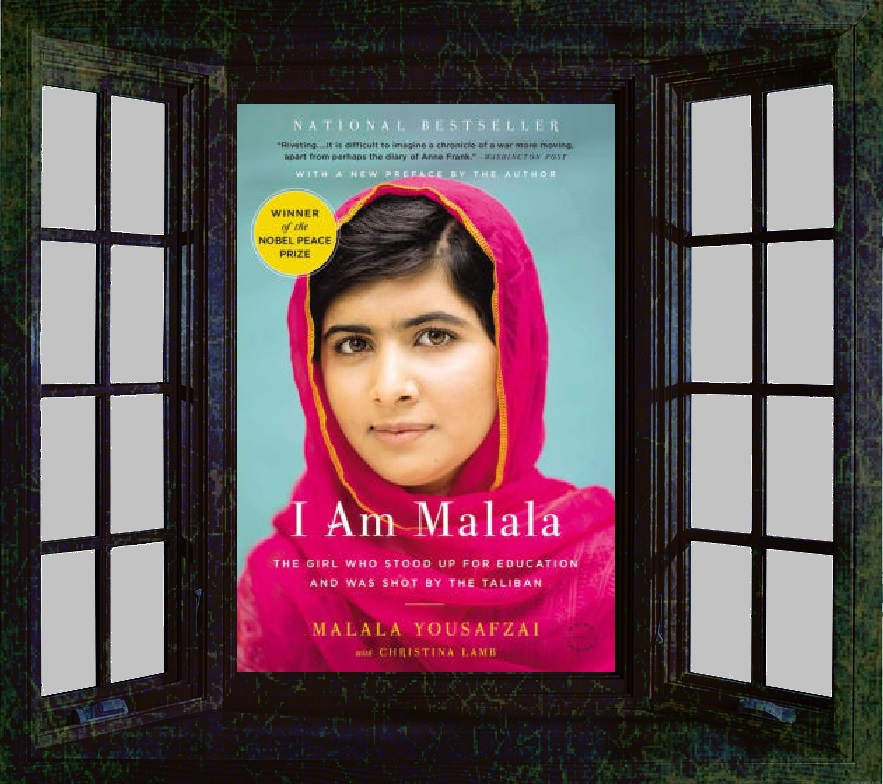
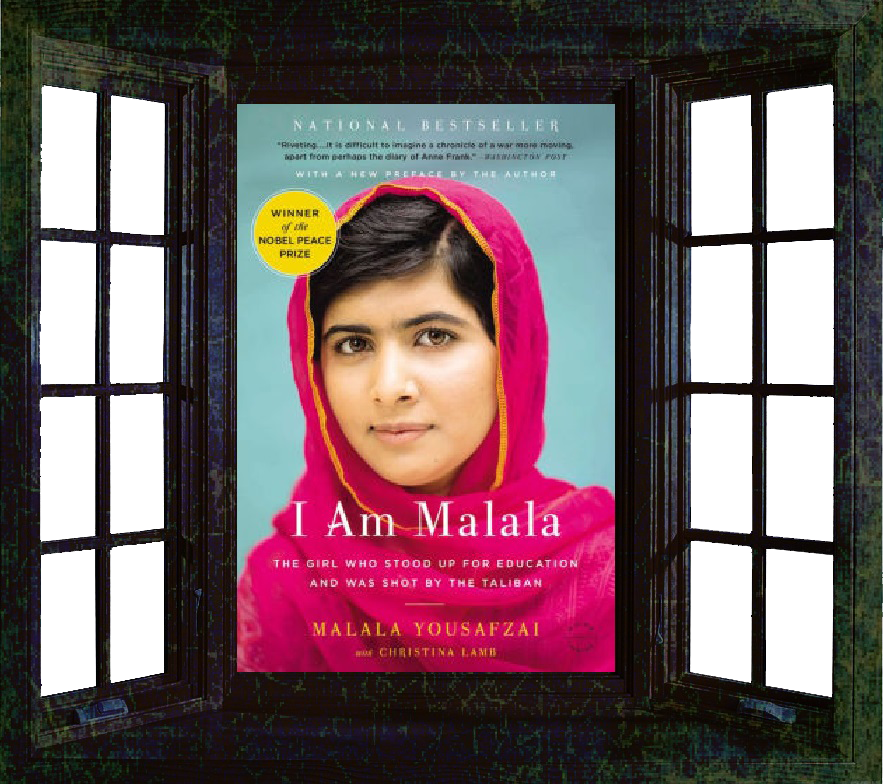
Added Books

Changed region(s): [[0.7644, 0.0918, 0.9479, 0.8878], [0.0306, 0.0918, 0.214, 0.8878]]

diff --git a/js/bookstore.js b/js/bookstore.js
@@ -1,13 +1,13 @@
 var book1 = {
     "id": 1,
-    "name": "Lasagna: A Retrospective",
-    "author": "Garfield",
-    "pictureUrl": "http://moziru.com/images/hut-clipart-windoor-10.png",
+    "name": "An American Marriage",
+    "author": "Tayari Jones",
+    "pictureUrl": "/css/photos/windowAmerican.png",
     "price": 24,
     "sellingPoints": [
-        "Lasagna is delicious.",
-        "The essential guide to Italian casseroles of all types.",
-        "Real G's move silent, like Lasagna. -Lil Wayne"
+        "Marriages are great.",
+        "The essential guide to Marriages of all types.",
+        "Real Couples's move in silence, like Lasagna. -Lil Me"
     ]
 }
 $('#book-1-id li p').text(book1.id)
@@ -23,5 +23,130 @@ while (i < book1.sellingPoints.length) {
   i ++
 }
 
-// $('#book-1-sellingpoints-2').text(book1.sellingPoints[1])
+var book2 = {
+    "id": 2,
+    "name": "Lasagna: A Retrospective",
+    "author": "Garfield",
+    "pictureUrl": "/css/photos/windowElastic.png",
+    "price": 20,
+    "sellingPoints": [
+        "Lasagna is delicious.",
+        "The essential guide to Italian casseroles of all types.",
+        "Real G's move silent, like Lasagna. -Lil Wayne"
+    ]
+}
+console.log("Book2");
+$('#book-2-id li p').text(book2.id)
+$('#book-2-name li p').text(book2.name)
+$('#book-2-author li p').text(book2.author)
+$('#book-2-picture li img').attr("src", book2.pictureUrl)
+$('#book-2-price li p').text(book2.price)
+
+var i = 0
+while (i < book2.sellingPoints.length) {
+  $('#book-2-sellingpoints ul').append('<li>' + book2.sellingPoints[i] + '</li>');
+  console.log(book2.sellingPoints[i]);
+  i ++
+}
+
+var book3 = {
+    "id": 3,
+    "name": "An American Marriage",
+    "author": "Tayari Jones",
+    "pictureUrl": "/css/photos/WindowMalala.png",
+    "price": 24,
+    "sellingPoints": [
+        "Marriages are great.",
+        "The essential guide to Marriages of all types.",
+        "Real Couples's move in silence, like Lasagna. -Lil Me"
+    ]
+}
+$('#book-3-id li p').text(book3.id)
+$('#book-3-name li p').text(book3.name)
+$('#book-3-author li p').text(book3.author)
+$('#book-3-picture li img').attr("src", book3.pictureUrl)
+$('#book-3-price li p').text(book3.price)
+// loop through array to get selling points.
+var i = 0
+while (i < book3.sellingPoints.length) {
+  $('#book-3-sellingpoints ul').append('<li>' + book3.sellingPoints[i] + '</li>');
+  console.log(book3.sellingPoints[i]);
+  i ++
+}
+
+var book4 = {
+    "id": 4,
+    "name": "An American Marriage",
+    "author": "Tayari Jones",
+    "pictureUrl": "/css/photos/WindowRussel.png",
+    "price": 24,
+    "sellingPoints": [
+        "Marriages are great.",
+        "The essential guide to Marriages of all types.",
+        "Real Couples's move in silence, like Lasagna. -Lil Me"
+    ]
+}
+$('#book-4-id li p').text(book4.id)
+$('#book-4-name li p').text(book4.name)
+$('#book-4-author li p').text(book4.author)
+$('#book-4-picture li img').attr("src", book4.pictureUrl)
+$('#book-4-price li p').text(book4.price)
+// loop through array to get selling points.
+var i = 0
+while (i < book4.sellingPoints.length) {
+  $('#book-4-sellingpoints ul').append('<li>' + book4.sellingPoints[i] + '</li>');
+  console.log(book4.sellingPoints[i]);
+  i ++
+}
+
+var book5 = {
+    "id": 5,
+    "name": "An American Marriage",
+    "author": "Tayari Jones",
+    "pictureUrl": "/css/photos/windowthug.png",
+    "price": 24,
+    "sellingPoints": [
+        "Marriages are great.",
+        "The essential guide to Marriages of all types.",
+        "Real Couples's move in silence, like Lasagna. -Lil Me"
+    ]
+}
+$('#book-5-id li p').text(book5.id)
+$('#book-5-name li p').text(book5.name)
+$('#book-5-author li p').text(book5.author)
+$('#book-5-picture li img').attr("src", book5.pictureUrl)
+$('#book-5-price li p').text(book5.price)
+// loop through array to get selling points.
+var i = 0
+while (i < book5.sellingPoints.length) {
+  $('#book-5-sellingpoints ul').append('<li>' + book5.sellingPoints[i] + '</li>');
+  console.log(book5.sellingPoints[i]);
+  i ++
+}
+
+var book6 = {
+    "id": 6,
+    "name": "An American Marriage",
+    "author": "Tayari Jones",
+    "pictureUrl": "/css/photos/windowWomen.png",
+    "price": 24,
+    "sellingPoints": [
+        "Marriages are great.",
+        "The essential guide to Marriages of all types.",
+        "Real Couples's move in silence, like Lasagna. -Lil Me"
+    ]
+}
+$('#book-6-id li p').text(book6.id)
+$('#book-6-name li p').text(book6.name)
+$('#book-6-author li p').text(book6.author)
+$('#book-6-picture li img').attr("src", book6.pictureUrl)
+$('#book-6-price li p').text(book6.price)
+// loop through array to get selling points.
+var i = 0
+while (i < book6.sellingPoints.length) {
+  $('#book-6-sellingpoints ul').append('<li>' + book6.sellingPoints[i] + '</li>');
+  console.log(book6.sellingPoints[i]);
+  i ++
+}
+// $('#book-2-sellingpoints-2').text(book1.sellingPoints[1])
 // $('#book-1-sellingpoints-3').text(book1.sellingPoints[2])

diff --git a/index.html b/index.html
@@ -21,10 +21,11 @@
     </ul>
   </div>
   <div class="content-area">
-    <div class="book-bg2"></div>
+    <!-- <div class="book-bg2"></div> -->
     <div class="book" id="book1">
       <h3>Book 1</h3>
-      <ul id="bookwrapper"><div id="book-1-id"><li>id</li></div>
+      <ul id="bookwrapper">
+        <div id="book-1-id"><li>id:</li></div>
         <div id="book-1-name"><li>name: <p></p></li></div>
         <div id="book-1-author"><li>author: <p></p></li></div>
         <div id="book-1-price"><li>price: <p></p></li></div>
@@ -40,28 +41,67 @@
     <div class="book" id="book2">
           <h3>Book 2</h3>
           <ul id="bookwrapper">
-            <div id="book-2-id"><li>id</li></div>
-            <div id="book-2-name"><li>name</li></div>
-            <div id="book-2-author"><li>author</li></div>
-            <div id="book-2-price"><li>price</li></div>
+            <div id="book-2-id"><li>id:</li></div>
+            <div id="book-2-name"><li>name: <p></p></li></div>
+            <div id="book-2-author"><li>author: <p></p></li></div>
+            <div id="book-2-price"><li>price: <p></p></li></div>
             <div id="book-2-picture"><li><img src="http://via.placeholder.com/125x185" alt="book-2 image"></li></div>
         </ul>
       <p>Selling Points:</p>
-        <div id="book-2-selling-points"> <ul><li>a list of selling points</li></ul></div>
+        <div id="book-2-sellingpoints">
+          <ul>
+
+          </ul>
+        </div>
   </div>
   <div class="book" id="book3">
         <h3>Book 3</h3>
         <ul id="bookwrapper">
-          <div id="id"><li>id</li></div>
-          <div id="book-3-name"><li>name</li></div>
-          <div id="book-3-author"><li>author</li></div>
-          <div id="book-3-price"><li>price</li></div>
+          <div id="id"><li>id: </li></div>
+          <div id="book-3-name"><li>name: <p></p></li></div>
+          <div id="book-3-author"><li>author: <p></p></li></div>
+          <div id="book-3-price"><li>price: <p></p></li></div>
           <div id="book-3-picture"><li><img src="http://via.placeholder.com/125x185" alt="book-3 image"></li></div>
       </ul>
     <p>Selling Points:</p>
-      <div id="book-3-selling-points"> <ul><li>a list of selling points</li></ul></div>
+      <div id="book-3-sellingpoints"> <ul><li></li></ul></div>
 </div>
-
+<div class="book" id="book4">
+      <h3>Book 4</h3>
+      <ul id="bookwrapper">
+        <div id="id"><li>id: </li></div>
+        <div id="book-4-name"><li>name: <p></p></li></div>
+        <div id="book-4-author"><li>author: <p></p></li></div>
+        <div id="book-4-price"><li>price: <p></p></li></div>
+        <div id="book-4-picture"><li><img src="http://via.placeholder.com/125x185" alt="book-4 image"></li></div>
+    </ul>
+  <p>Selling Points:</p>
+    <div id="book-4-sellingpoints"> <ul><li></li></ul></div>
+</div>
+<div class="book" id="book5">
+      <h3>Book 5</h3>
+      <ul id="bookwrapper">
+        <div id="id"><li>id: </li></div>
+        <div id="book-5-name"><li>name: <p></p></li></div>
+        <div id="book-5-author"><li>author: <p></p></li></div>
+        <div id="book-5-price"><li>price: <p></p></li></div>
+        <div id="book-5-picture"><li><img src="http://via.placeholder.com/125x185" alt="book-5 image"></li></div>
+    </ul>
+  <p>Selling Points:</p>
+    <div id="book-5-sellingpoints"> <ul><li></li></ul></div>
+</div>
+<div class="book" id="book6">
+      <h3>Book 6</h3>
+      <ul id="bookwrapper">
+        <div id="id"><li>id: </li></div>
+        <div id="book-6-name"><li>name: <p></p></li></div>
+        <div id="book-6-author"><li>author: <p></p></li></div>
+        <div id="book-6-price"><li>price: <p></p></li></div>
+        <div id="book-6-picture"><li><img src="http://via.placeholder.com/125x185" alt="book-6 image"></li></div>
+    </ul>
+  <p>Selling Points:</p>
+    <div class="book" id="book-6-sellingpoints"> <ul><li></li></ul></div>
+</div>
 
 
 <div class="form-group form">

diff --git a/css/style.css b/css/style.css
@@ -19,6 +19,11 @@
   padding-left:0pt;
 }
 
+.book ul {
+  list-style: none;
+  padding-left: 0pt;
+}
+
 #bookwrapper {
   padding-left:0pt;
 }
